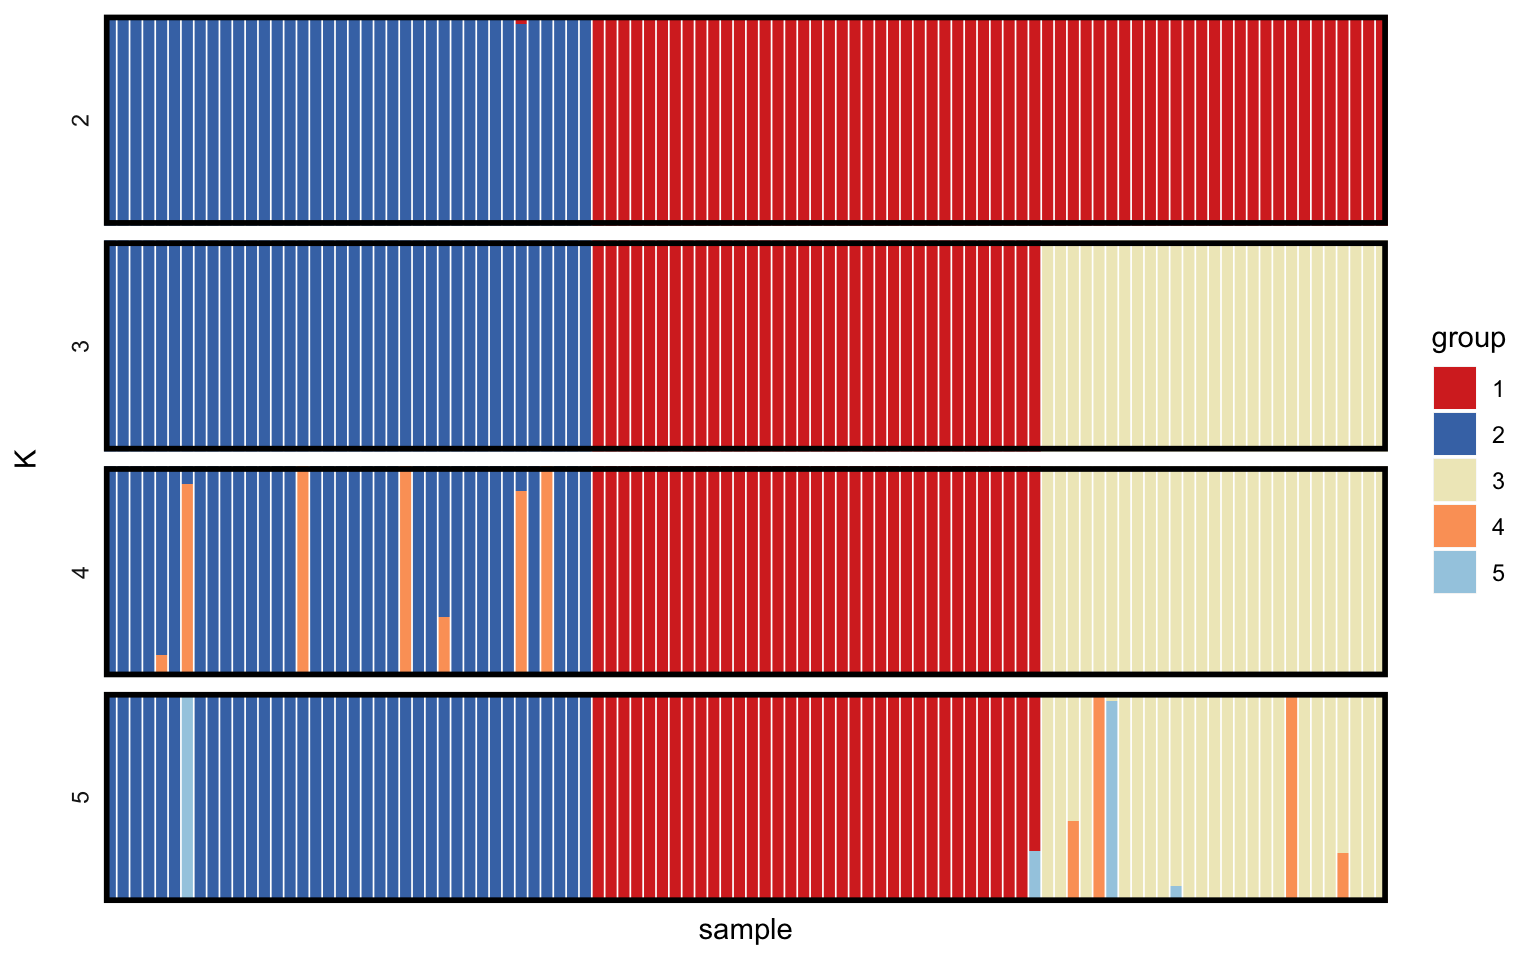
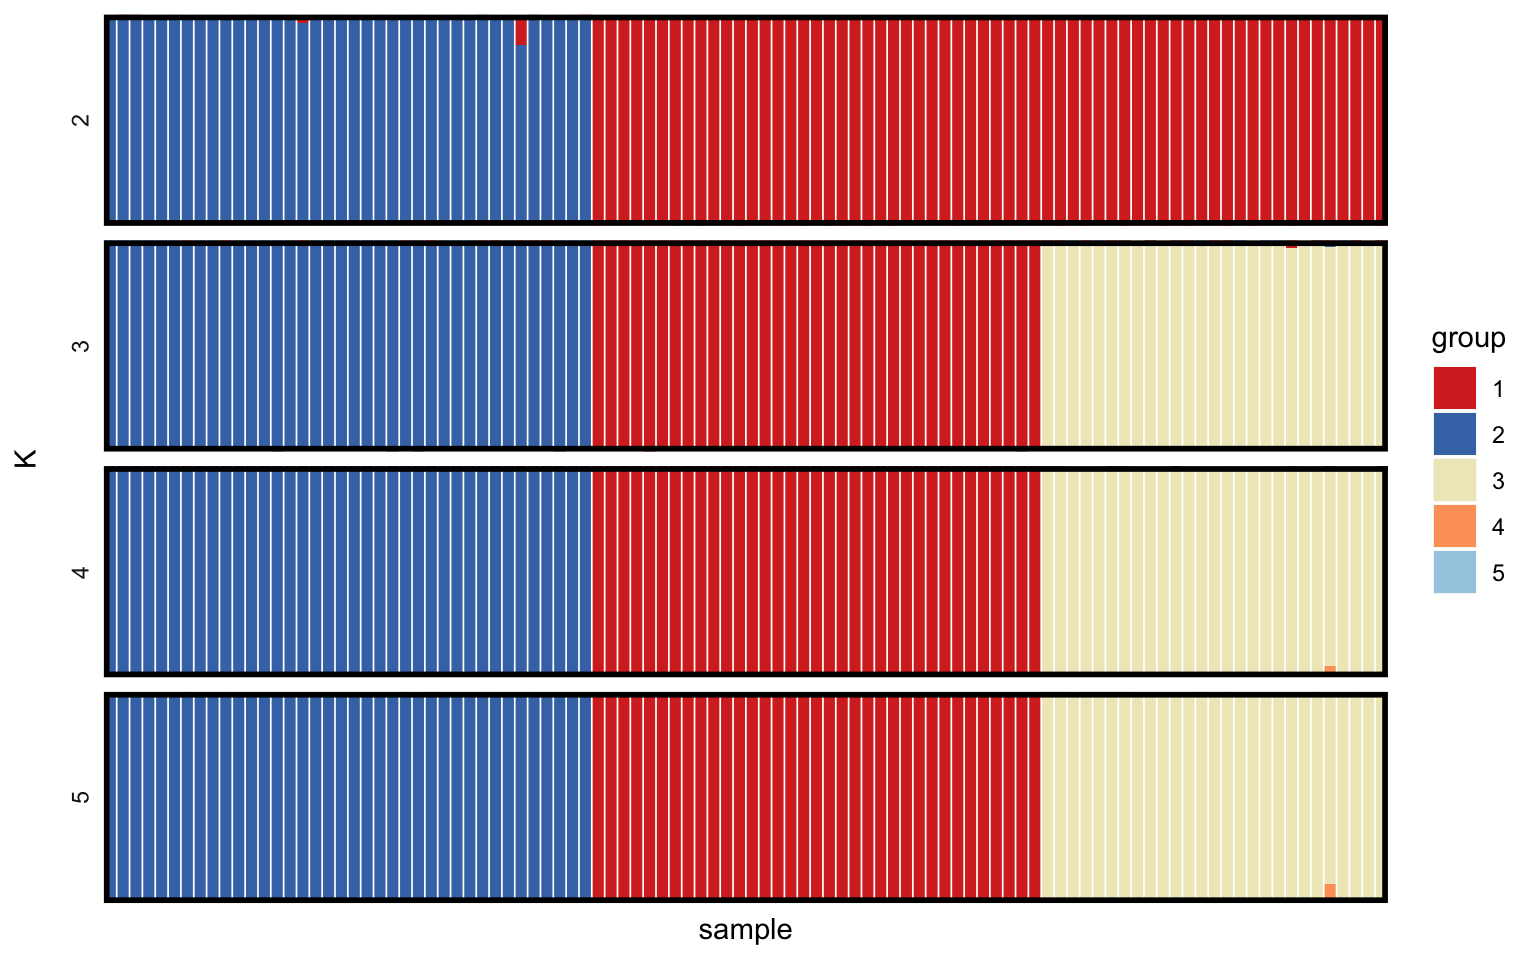
ran full basic tutorial

diff --git a/docs/articles/basic_tutorial.html b/docs/articles/basic_tutorial.html
@@ -171,62 +171,74 @@ myproj &lt;-<span class="st"> </span><span class="kw"><a href="../reference/bind
 ##    model = no-admixture
 ##    lambda = 1</code></pre>
 <p>Now we are ready to run a basic MCMC. We will start by exploring values of K from 1 to 5, using 1000 burn-in iterations and 1000 sampling iterations. By default the MCMC has <code>auto_converge</code> turned on, meaning it will test for convergence every <code>convergence_test</code> iterations and will exit if convergence is reached (<code>convergence_test = burnin/10</code> by default). Hence, it is generally a good idea to set <code>burnin</code> to be higher than expected, as the MCMC will adjust this number down if needed. The number of sampling iterations can also be tuned. Our aim when choosing the number of sampling iterations should be to obtain enough samples that our posterior estimates are accurate to an acceptable tolerance level, but not so many that we waste time running the MCMC for long periods past this point. We will look into this parameter again once the MCMC has completed. The most unfamiliar parameter for most users will be the number of “rungs”. <em>rmaverick</em> runs multiple MCMC chains simultaneously, each at a different rung on a “temperature ladder”. The cold chain is our ordinary MCMC chain, and the hot chains serve two purposes: 1) they improve MCMC mixing, 2) they are central to the GTI method of estimating the evidence for different models. Finally, for the sake of this document we will run with <code>pb_markdown = TRUE</code> to avoid printing large amounts of output, but you should run without this argument.</p>
-<div class="sourceCode"><pre class="sourceCode r"><code class="sourceCode r"><span class="co">#myproj &lt;- run_mcmc(myproj, K = 1:5, burnin = 1e3, samples = 1e3, rungs = 10, pb_markdown =  TRUE)</span>
-myproj &lt;-<span class="st"> </span><span class="kw"><a href="../reference/run_mcmc.html">run_mcmc</a></span>(myproj, <span class="dt">K =</span> <span class="dv">1</span>:<span class="dv">5</span>, <span class="dt">burnin =</span> <span class="fl">1e1</span>, <span class="dt">samples =</span> <span class="fl">1e1</span>, <span class="dt">rungs =</span> <span class="dv">1</span>, <span class="dt">pb_markdown =</span>  <span class="ot">TRUE</span>)</code></pre></div>
+<div class="sourceCode"><pre class="sourceCode r"><code class="sourceCode r">myproj &lt;-<span class="st"> </span><span class="kw"><a href="../reference/run_mcmc.html">run_mcmc</a></span>(myproj, <span class="dt">K =</span> <span class="dv">1</span>:<span class="dv">5</span>, <span class="dt">burnin =</span> <span class="fl">1e3</span>, <span class="dt">samples =</span> <span class="fl">1e3</span>, <span class="dt">rungs =</span> <span class="dv">10</span>, <span class="dt">pb_markdown =</span>  <span class="ot">TRUE</span>)</code></pre></div>
 <pre><code>## Calculating exact solution for K = 1
-##    completed in 0.00204679 seconds
+##    completed in 0.00342641 seconds
 ## 
 ## Running MCMC for K = 2
 ## Burn-in phase
 ## 
   |                                                                       
   |=================================================================| 100%
-##    converged within 2 iterations
+##    converged within 100 iterations
 ## Sampling phase
 ## 
   |                                                                       
   |=================================================================| 100%
-##    completed in 0.08064 seconds
+##    completed in 1.35938 seconds
 ## 
 ## Running MCMC for K = 3
 ## Burn-in phase
 ## 
   |                                                                       
   |=================================================================| 100%
-##    converged within 2 iterations
+##    converged within 200 iterations
 ## Sampling phase
 ## 
   |                                                                       
   |=================================================================| 100%
-##    completed in 0.0827989 seconds
+##    completed in 1.58488 seconds
 ## 
 ## Running MCMC for K = 4
 ## Burn-in phase
 ## 
   |                                                                       
   |=================================================================| 100%
-##    converged within 2 iterations
+##    converged within 400 iterations
 ## Sampling phase
 ## 
   |                                                                       
   |=================================================================| 100%
-##    completed in 0.0981585 seconds
+##    completed in 2.05572 seconds
 ## 
 ## Running MCMC for K = 5
 ## Burn-in phase
 ## 
   |                                                                       
   |=================================================================| 100%
-##    converged within 2 iterations
+##    Warning: convergence still not reached within 1000 iterations
 ## Sampling phase
 ## 
   |                                                                       
   |=================================================================| 100%
-##    completed in 0.0932484 seconds
+##    completed in 2.98787 seconds
 ## 
 ## Processing results</code></pre>
 <p>Notice that the solution for K=1 is almost instantaneous, as no MCMC is required in this case. If any values of K failed to converge then we can use the same <code><a href="../reference/run_mcmc.html">run_mcmc()</a></code> function to re-run the MCMC for just a single value of K and with a longer maximum burn-in. This will overwrite the existing output for the specified value of K, but will leave all other values untouched:</p>
-<div class="sourceCode"><pre class="sourceCode r"><code class="sourceCode r"><span class="co">#myproj &lt;- run_mcmc(myproj, K = 5, burnin = 1e4, converge_test = 100, samples = 1e3, rungs = 10, pb_markdown =  TRUE)</span></code></pre></div>
+<div class="sourceCode"><pre class="sourceCode r"><code class="sourceCode r">myproj &lt;-<span class="st"> </span><span class="kw"><a href="../reference/run_mcmc.html">run_mcmc</a></span>(myproj, <span class="dt">K =</span> <span class="dv">5</span>, <span class="dt">burnin =</span> <span class="fl">1e4</span>, <span class="dt">converge_test =</span> <span class="dv">100</span>, <span class="dt">samples =</span> <span class="fl">1e3</span>, <span class="dt">rungs =</span> <span class="dv">10</span>, <span class="dt">pb_markdown =</span>  <span class="ot">TRUE</span>)</code></pre></div>
+<pre><code>## Running MCMC for K = 5
+## Burn-in phase
+## 
+  |                                                                       
+  |=================================================================| 100%
+##    converged within 400 iterations
+## Sampling phase
+## 
+  |                                                                       
+  |=================================================================| 100%
+##    completed in 2.46685 seconds
+## 
+## Processing results</code></pre>
 </div>
 <div id="comparing-values-of-k" class="section level3">
 <h3 class="hasAnchor">
@@ -278,58 +290,57 @@ myproj</code></pre></div>
 ##    lambda = 1</code></pre>
 <p>The admixture model tends to take considerably longer to run than the no-admixture model, and mixes more poorly. This is because the MCMC now has to consider the population assignment of each gene copy separately, and also has additional parameters to estimate. For this reason we suggest that <strong>if there is no prior biological reason to expect admixture between populations then consider running the simpler non-admixture model only</strong>.</p>
 <p>We run the MCMC the same way as before, this time anticipating that we might need a greater number of burn-in and sampling iterations. Again, this should be run without the <code>pb_markdown = TRUE</code> argument ordinarily.</p>
-<div class="sourceCode"><pre class="sourceCode r"><code class="sourceCode r"><span class="co">#myproj &lt;- run_mcmc(myproj, K = 1:5, burnin = 1e4, converge_test = 100, samples = 2e3, rungs = 10, pb_markdown = TRUE)</span>
-myproj &lt;-<span class="st"> </span><span class="kw"><a href="../reference/run_mcmc.html">run_mcmc</a></span>(myproj, <span class="dt">K =</span> <span class="dv">1</span>:<span class="dv">5</span>, <span class="dt">burnin =</span> <span class="fl">1e1</span>, <span class="dt">converge_test =</span> <span class="dv">100</span>, <span class="dt">samples =</span> <span class="fl">2e1</span>, <span class="dt">rungs =</span> <span class="dv">1</span>, <span class="dt">pb_markdown =</span> <span class="ot">TRUE</span>)</code></pre></div>
+<div class="sourceCode"><pre class="sourceCode r"><code class="sourceCode r">myproj &lt;-<span class="st"> </span><span class="kw"><a href="../reference/run_mcmc.html">run_mcmc</a></span>(myproj, <span class="dt">K =</span> <span class="dv">1</span>:<span class="dv">5</span>, <span class="dt">burnin =</span> <span class="fl">1e4</span>, <span class="dt">converge_test =</span> <span class="dv">100</span>, <span class="dt">samples =</span> <span class="fl">2e3</span>, <span class="dt">rungs =</span> <span class="dv">10</span>, <span class="dt">pb_markdown =</span> <span class="ot">TRUE</span>)</code></pre></div>
 <pre><code>## Calculating exact solution for K = 1
-##    completed in 0.018072 seconds
+##    completed in 0.152345 seconds
 ## 
 ## Running MCMC for K = 2
 ## Burn-in phase
 ## 
   |                                                                       
   |=================================================================| 100%
-##    Warning: convergence still not reached within 10 iterations
+##    converged within 400 iterations
 ## Sampling phase
 ## 
   |                                                                       
   |=================================================================| 100%
-##    completed in 0.137545 seconds
+##    completed in 46.747 seconds
 ## 
 ## Running MCMC for K = 3
 ## Burn-in phase
 ## 
   |                                                                       
   |=================================================================| 100%
-##    Warning: convergence still not reached within 10 iterations
+##    converged within 200 iterations
 ## Sampling phase
 ## 
   |                                                                       
   |=================================================================| 100%
-##    completed in 0.186238 seconds
+##    completed in 47.5489 seconds
 ## 
 ## Running MCMC for K = 4
 ## Burn-in phase
 ## 
   |                                                                       
   |=================================================================| 100%
-##    Warning: convergence still not reached within 10 iterations
+##    converged within 200 iterations
 ## Sampling phase
 ## 
   |                                                                       
   |=================================================================| 100%
-##    completed in 0.257146 seconds
+##    completed in 52.8534 seconds
 ## 
 ## Running MCMC for K = 5
 ## Burn-in phase
 ## 
   |                                                                       
   |=================================================================| 100%
-##    Warning: convergence still not reached within 10 iterations
+##    converged within 400 iterations
 ## Sampling phase
 ## 
   |                                                                       
   |=================================================================| 100%
-##    completed in 0.322006 seconds
+##    completed in 59.0061 seconds
 ## 
 ## Processing results</code></pre>
 <p>As before, we need to check the behaviour of our MCMC. Under the admixture model we have the additional parameter <em>alpha</em> to check. We can produce a summary plot of this parameter as follows:</p>
